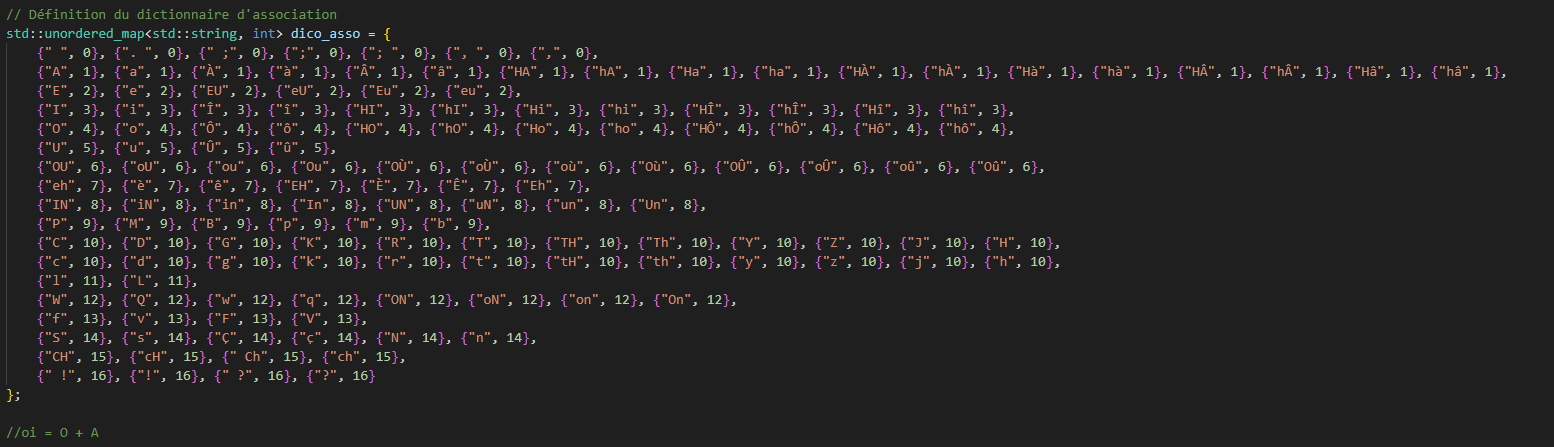
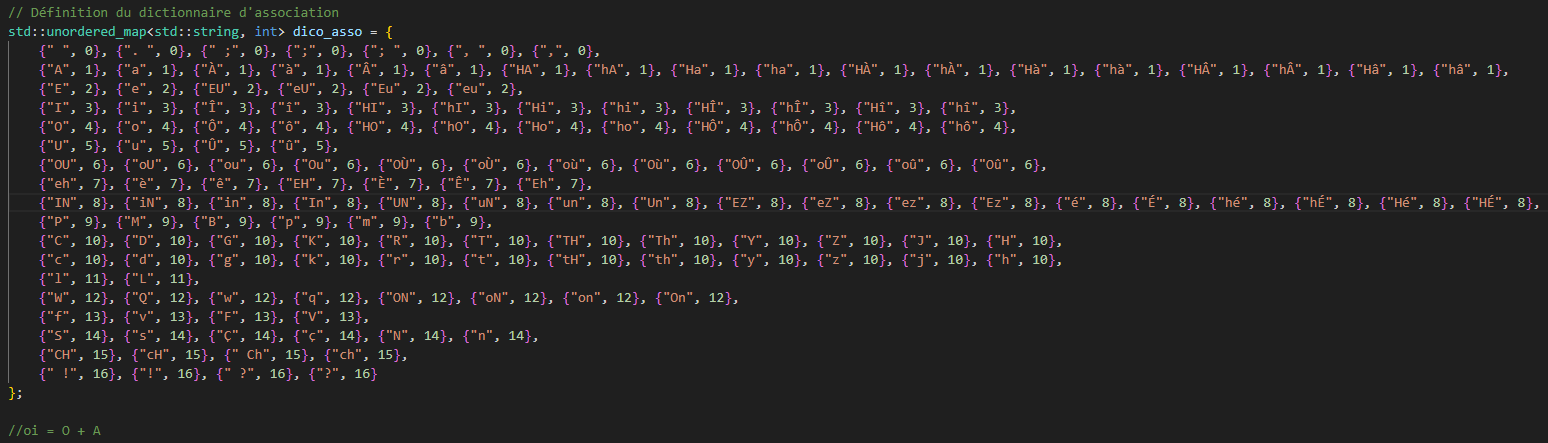
edit translate

Changed region(s): [[0.0, 0.0, 0.9922, 0.8804], [0.0, 0.9391, 0.062, 0.9977], [0.0, 0.8804, 0.031, 0.9097]]

diff --git a/src/animation.cpp b/src/animation.cpp
@@ -28,7 +28,7 @@ std::unordered_map<std::string, int> dico_asso = {
     {"U", 5}, {"u", 5}, {"Û", 5}, {"û", 5},
     {"OU", 6}, {"oU", 6}, {"ou", 6}, {"Ou", 6}, {"OÙ", 6}, {"oÙ", 6}, {"où", 6}, {"Où", 6}, {"OÛ", 6}, {"oÛ", 6}, {"oû", 6}, {"Oû", 6}, 
     {"eh", 7}, {"è", 7}, {"ê", 7}, {"EH", 7}, {"È", 7}, {"Ê", 7}, {"Eh", 7},
-    {"IN", 8}, {"iN", 8}, {"in", 8}, {"In", 8}, {"UN", 8}, {"uN", 8}, {"un", 8}, {"Un", 8},
+    {"IN", 8}, {"iN", 8}, {"in", 8}, {"In", 8}, {"UN", 8}, {"uN", 8}, {"un", 8}, {"Un", 8}, {"EZ", 8}, {"eZ", 8}, {"ez", 8}, {"Ez", 8}, {"é", 8}, {"É", 8}, {"hé", 8}, {"hÉ", 8}, {"Hé", 8}, {"HÉ", 8},
     {"P", 9}, {"M", 9}, {"B", 9}, {"p", 9}, {"m", 9}, {"b", 9},
     {"C", 10}, {"D", 10}, {"G", 10}, {"K", 10}, {"R", 10}, {"T", 10}, {"TH", 10}, {"Th", 10}, {"Y", 10}, {"Z", 10}, {"J", 10}, {"H", 10},
     {"c", 10}, {"d", 10}, {"g", 10}, {"k", 10}, {"r", 10}, {"t", 10}, {"tH", 10}, {"th", 10}, {"y", 10}, {"z", 10}, {"j", 10}, {"h", 10},
